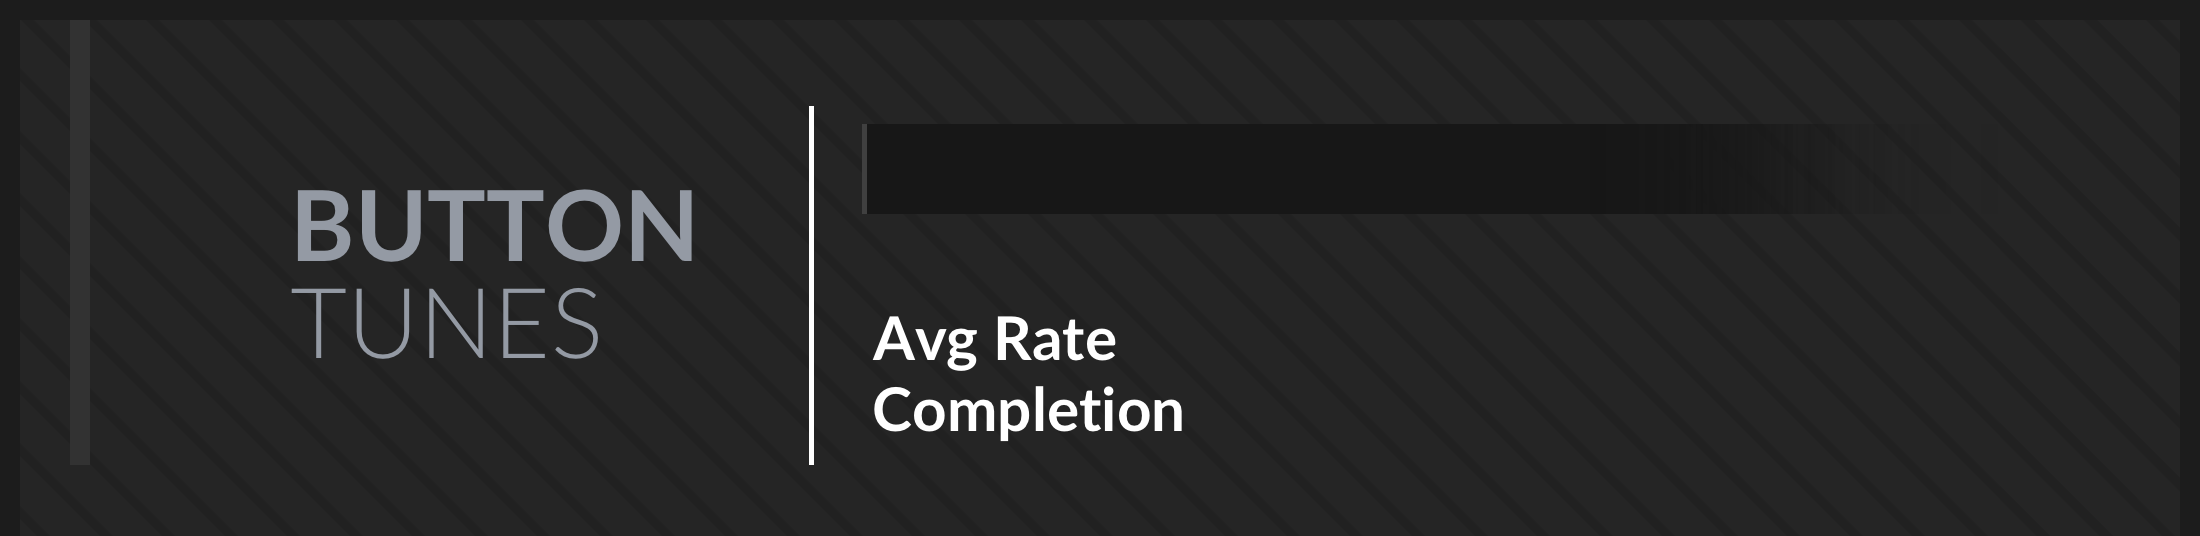
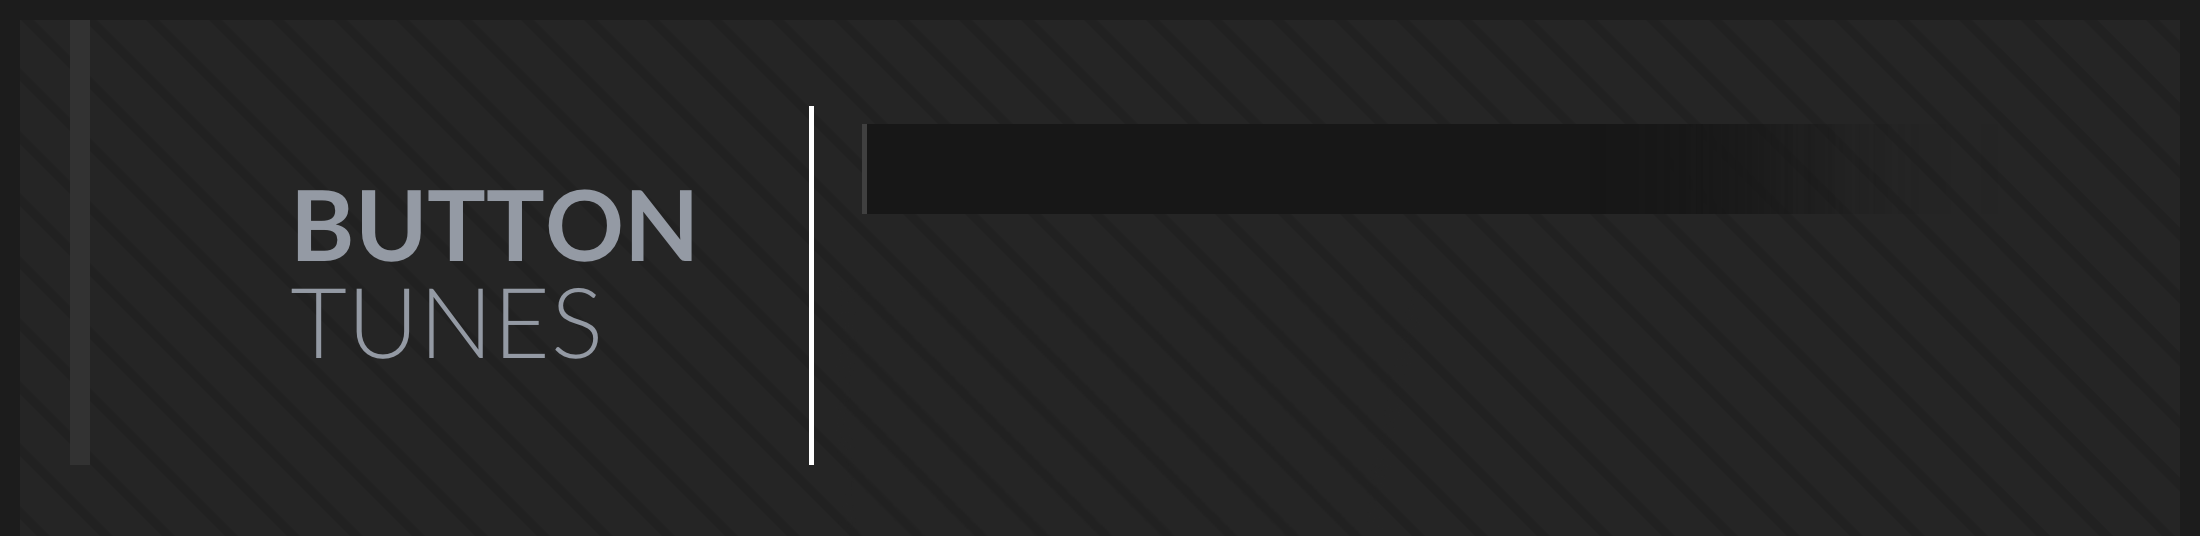
add pp list

Changed region(s): [[0.3709, 0.7164, 0.5564, 0.806], [0.4018, 0.597, 0.5255, 0.6866]]

diff --git a/djmax_bests/generators/scorelist_generator/header_renderers.py b/djmax_bests/generators/scorelist_generator/header_renderers.py
@@ -24,10 +24,13 @@ def __render_header_base(data: models.DMScorelist, bg: Image.Image,
 
 
 def __render_stats_basic(data: models.DMScorelist, bg: Image.Image) -> None:
+    font_rg = ImageFont.truetype(os.path.join(c.FONT_PATH, "Respect_rg.ttf"), 60)
     font_bd = ImageFont.truetype(os.path.join(c.FONT_PATH, "Respect_bd.ttf"), 60)
     draw = ImageDraw.Draw(bg)
 
-    current_x = 1210
+    draw.text((868, 360), "Avg Rate", fill='white', anchor='ls', font=font_rg)
+    draw.text((868, 432), "Completion", fill='white', anchor='ls', font=font_rg)
+    current_x = 1200
     avg_s = f"{data.avg_score:.2f}%"
     comp_s = f"{data.completion_rate:.2f}%"
     comp_s_len = ceil(draw.textlength(comp_s, font=font_bd))
@@ -39,8 +42,8 @@ def __render_stats_basic(data: models.DMScorelist, bg: Image.Image) -> None:
     draw.rectangle([(current_x - 1, 310), (current_x + 1, 440)], fill='white')
 
     current_x += 30
-    draw.text((current_x, 360), f"≥99%", fill='white', anchor='ls', font=font_bd)
-    draw.text((current_x, 432), f"≥97%", fill='white', anchor='ls', font=font_bd)
+    draw.text((current_x, 360), f"≥99%", fill='white', anchor='ls', font=font_rg)
+    draw.text((current_x, 432), f"≥97%", fill='white', anchor='ls', font=font_rg)
 
     current_x += 179 + 30  # length of "≥97%" and padding
     c99, c97 = data.count_99_97
@@ -95,3 +98,60 @@ def render_header_by_pack(data: models.DMScorelist, bg: Image.Image, pack_name: 
                       anchor='lm', font=font_bd)
 
     __render_header_base(data, bg, __render_star_strip, __render_stats_basic)
+
+
+def render_header_pp(data: models.DMScorelist, bg: Image.Image) -> None:
+    def __render_star_strip(draw: ImageDraw.ImageDraw) -> None:
+        font_bd = ImageFont.truetype(os.path.join(c.FONT_PATH, "Respect_bd.ttf"), 70)
+
+        with util.assemble_diff_strip_blank(is_sc=data.is_sc, diff_star_path=c.DIFF_STAR_PATH) as star_strip:
+            bg.alpha_composite(star_strip, (868, 231))
+            draw.text((868 + star_strip.width // 2, 228 + star_strip.height // 2),
+                      "PERFECT PLAY", fill='#fe0544',
+                      anchor='mm', font=font_bd)
+
+    def __render_stats(_data: models.DMScorelist, _bg: Image.Image) -> None:
+        font_rg = ImageFont.truetype(os.path.join(c.FONT_PATH, "Respect_rg.ttf"), 60)
+        font_bd = ImageFont.truetype(os.path.join(c.FONT_PATH, "Respect_bd.ttf"), 60)
+        draw = ImageDraw.Draw(_bg)
+
+        current_x = 868
+
+        draw.text((current_x, 360), "Highest SC Level", fill='white', anchor='ls', font=font_rg)
+        draw.text((current_x, 432), "Highest Non-SC Level", fill='white', anchor='ls', font=font_rg)
+        current_x += 670
+        sc_level = _data.first_sc_level
+        nonsc_level = _data.first_nonsc_level
+        draw.text((current_x, 360), str(sc_level) if sc_level > 0 else "--",
+                  fill='white', anchor='rs', font=font_bd)
+        draw.text((current_x, 432), str(nonsc_level) if nonsc_level > 0 else "--",
+                  fill='white', anchor='rs', font=font_bd)
+
+        current_x += 10
+        sc_star_name = f"sc_{(sc_level - 1) // 5 + 1 if sc_level > 0 else 0}.png"
+        nonsc_star_name = f"nm_{(nonsc_level - 1) // 5 + 1 if nonsc_level > 0 else 0}.png"
+        with Image.open(os.path.join(c.DIFF_STAR_PATH, sc_star_name)) as sc_star_img:
+            res = sc_star_img.resize((60, 60))
+            bg.alpha_composite(res, (current_x, 365 - c.MC_IMG_SIZE[1]))
+        with Image.open(os.path.join(c.DIFF_STAR_PATH, nonsc_star_name)) as nonsc_star_img:
+            res = nonsc_star_img.resize((60, 60))
+            bg.alpha_composite(res, (current_x, 437 - c.MC_IMG_SIZE[1]))
+
+        current_x += 30 + 60 # star width
+        draw.rectangle([(current_x - 1, 310), (current_x + 1, 440)], fill='white')
+
+        current_x += 30
+        with Image.open(os.path.join(c.ASSET_PATH, "PP_counter.png")) as pp_img:
+            bg.alpha_composite(pp_img, (current_x, 365 - c.MC_IMG_SIZE[1]))
+            bg.alpha_composite(pp_img, (current_x, 437 - c.MC_IMG_SIZE[1]))
+        current_x += c.MC_IMG_SIZE[0] + 30
+        draw.text((current_x, 360), "SC", fill='white', anchor='ls', font=font_rg)
+        draw.text((current_x, 432), "Non-SC", fill='white', anchor='ls', font=font_rg)
+        current_x += 230
+        csc, cnsc = data.count_sc_nonsc
+        step = ceil(max(draw.textlength(str(csc), font=font_bd), draw.textlength(str(cnsc), font=font_bd)))
+        current_x += step
+        draw.text((current_x, 360), str(csc), fill='white', anchor='rs', font=font_bd)
+        draw.text((current_x, 432), str(cnsc), fill='white', anchor='rs', font=font_bd)
+
+    __render_header_base(data, bg, __render_star_strip, __render_stats)

diff --git a/djmax_bests/models.py b/djmax_bests/models.py
@@ -271,7 +271,7 @@ class DMSongSimple(BaseModel):
 
 class DMScorelistFloor(BaseModel):
     floor_constant: Decimal
-    floor_diff: Literal["NM", "HD", "MX", "SC"]
+    floor_diff: Literal["NM", "HD", "MX", "SC", ""]
     songs: list[DMSongSimple]
 
 class DMScorelist(BaseModel):
@@ -349,10 +349,35 @@ class DMScorelist(BaseModel):
                     count_mc += 1
         return count_mc, count_pp
 
+    @property
+    def first_sc_level(self) -> Decimal:
+        for floor in self.floors:
+            if floor.floor_diff == "SC":
+                return floor.floor_constant
+        return Decimal(0)
+
+    @property
+    def first_nonsc_level(self) -> Decimal:
+        for floor in self.floors:
+            if floor.floor_diff != "SC":
+                return floor.floor_constant
+        return Decimal(0)
+
+    @property
+    def count_sc_nonsc(self) -> tuple[int, int]:
+        count_sc = 0
+        count_nonsc = 0
+        for floor in self.floors:
+            if floor.floor_diff == "SC":
+                count_sc += len(floor.songs)
+            else:
+                count_nonsc += len(floor.songs)
+        return count_sc, count_nonsc
+
 
     def organize(self):
         def __sort_floor(f: DMScorelistFloor) -> tuple[int, Decimal]:
-            diff_index = {"NM": 0, "HD": 1, "MX": 2, "SC": 3}[f.floor_diff]
+            diff_index = {"": -1, "NM": 0, "HD": 1, "MX": 2, "SC": 3}[f.floor_diff]
             return diff_index, f.floor_constant
         self.floors.sort(key=__sort_floor, reverse=True)
         for floor in self.floors:
@@ -360,7 +385,7 @@ class DMScorelist(BaseModel):
 
 
     @classmethod
-    def __make_songlist(cls, is_sc: bool, measure_in_sc_floor: bool, level: int,
+    def __make_songlist(cls, is_sc: bool, measure_in_sc_floor: bool, distinguish_nonsc_diff: bool, level: int,
                         all_patterns: SongDBMatches | None, va_response: VAResponse) -> "DMScorelist":
         floors: list[DMScorelistFloor] = []
         for pattern in va_response.records:
@@ -374,6 +399,9 @@ class DMScorelist(BaseModel):
             if not is_sc:
                 # drop decimal place
                 floor_constant = Decimal(int(floor_constant))
+
+            if not distinguish_nonsc_diff and floor_diff != "SC":
+                floor_diff = ""
 
             dm_song_simple = DMSongSimple(
                 songid=pattern.title,
@@ -404,6 +432,9 @@ class DMScorelist(BaseModel):
                 else:
                     floor_diff = diff
 
+                if not distinguish_nonsc_diff and floor_diff != "SC":
+                    floor_diff = ""
+
                 dm_song_simple = DMSongSimple(
                     songid=song_id,
                     pattern=diff,
@@ -429,14 +460,23 @@ class DMScorelist(BaseModel):
     @classmethod
     def from_va_response_level(cls, is_sc: bool, level: int, song_db: DMSongDB, va_response: VAResponse) -> "DMScorelist":
         all_patterns = song_db.get_songs_by_level(va_response.button, level, is_sc)
-        return cls.__make_songlist(is_sc, True, level, all_patterns, va_response)
+        return cls.__make_songlist(is_sc, True, False, level, all_patterns, va_response)
 
     @classmethod
     def from_va_response_new(cls, diff: str, song_db: DMSongDB, va_response: VAResponse) -> "DMScorelist":
         all_patterns = song_db.get_new_songs(va_response.button, diff)
-        return cls.__make_songlist(diff == "SC", False, 0, all_patterns, va_response)
+        return cls.__make_songlist(diff == "SC", False, True, 0, all_patterns, va_response)
 
     @classmethod
     def from_va_response_pack(cls, diff: str, pack: str, song_db: DMSongDB, va_response: VAResponse) -> "DMScorelist":
         all_patterns = song_db.get_songs_by_pack(va_response.button, diff, pack)
-        return cls.__make_songlist(diff == "SC", False, 0, all_patterns, va_response)
+        return cls.__make_songlist(diff == "SC", False, True, 0, all_patterns, va_response)
+
+    @classmethod
+    def from_va_response_pp(cls, va_response: VAResponse) -> "DMScorelist":
+        filtered_resp = VAResponse(
+            nickname=va_response.nickname,
+            button=va_response.button,
+            records=[record for record in va_response.records if record.score is not None and record.score == Decimal("100.00")]
+        )
+        return cls.__make_songlist(False, False, False, 0, None, filtered_resp)

diff --git a/djmax_bests/generate.py b/djmax_bests/generate.py
@@ -1,35 +1,41 @@
 from PIL import Image
 
 from . import api_handler, models
-from .generators import bests_generator, scorelist_generator
+import generators
 
 
 async def generate_bests(username: str, bmode: int) -> Image.Image:
     bests_data = await api_handler.fetch_bests(username, bmode)
     bests_data.organize()
-    return await bests_generator.generate_bests_image(bests_data)
+    return await generators.generate_bests_image(bests_data)
 
 
 async def generate_bests_theoretical(bmode: int) -> Image.Image:
     song_db = await api_handler.fetch_song_db()
     bests_data = models.DMBests.get_theoretical_bests(bmode, song_db)
     bests_data.organize()
-    return await bests_generator.generate_bests_image(bests_data, is_max=True)
+    return await generators.generate_bests_image(bests_data, is_max=True)
 
 
 async def generate_scorelist(username: str, bmode: int, is_sc: bool, level: int) -> Image.Image:
     scorelist_data = await api_handler.fetch_scorelist(username, bmode, is_sc, level)
     scorelist_data.organize()
-    return await scorelist_generator.generate_scorelist_by_level(scorelist_data)
+    return await generators.generate_scorelist_by_level(scorelist_data)
 
 
 async def generate_scorelist_new(username: str, bmode: int, diff: str) -> Image.Image:
     scorelist_data = await api_handler.fetch_scorelist_new(username, bmode, diff)
     scorelist_data.organize()
-    return await scorelist_generator.generate_scorelist_by_pack(scorelist_data, "NEW")
+    return await generators.generate_scorelist_by_pack(scorelist_data, "NEW")
 
 
 async def generate_scorelist_pack(username: str, bmode: int, diff: str, pack: str) -> Image.Image:
     scorelist_data = await api_handler.fetch_scorelist_pack(username, bmode, diff, pack)
     scorelist_data.organize()
-    return await scorelist_generator.generate_scorelist_by_pack(scorelist_data, pack)
+    return await generators.generate_scorelist_by_pack(scorelist_data, pack)
+
+
+async def generate_scorelist_pp(username: str, bmode: int) -> Image.Image:
+    scorelist_data = await api_handler.fetch_scorelist_pp(username, bmode)
+    scorelist_data.organize()
+    return await generators.generate_scorelist_pp(scorelist_data)

diff --git a/djmax_bests/generators/scorelist_generator/scorelist_generate.py b/djmax_bests/generators/scorelist_generator/scorelist_generate.py
@@ -20,6 +20,9 @@ async def generate_scorelist_by_level(data: models.DMScorelist) -> Image.Image:
 
 
 async def generate_scorelist_by_pack(data: models.DMScorelist, pack_name: str) -> Image.Image:
+    """
+    Also works as NEW SONGS generator, by passing "NEW" into pack_name.
+    """
     if pack_name == "NEW":
         pack_color = '#f4bb00'
     else:
@@ -30,6 +33,17 @@ async def generate_scorelist_by_pack(data: models.DMScorelist, pack_name: str) -
     header_renderers.render_header_by_pack(data, bg, pack_name, pack_color)
 
     with await songs_renderers.render_songs_by_pack(data, bg.size) as overlay:
+        bg.alpha_composite(overlay)
+
+    return bg
+
+
+async def generate_scorelist_pp(data: models.DMScorelist) -> Image.Image:
+    bg = await asyncio.to_thread(assemble_background, data)
+
+    header_renderers.render_header_pp(data, bg)
+
+    with await songs_renderers.render_songs_pp(data, bg.size) as overlay:
         bg.alpha_composite(overlay)
 
     return bg

diff --git a/djmax_bests/generators/scorelist_generator/songs_renderers.py b/djmax_bests/generators/scorelist_generator/songs_renderers.py
@@ -81,3 +81,13 @@ async def render_songs_by_pack(data: models.DMScorelist, dimension: tuple[int, i
                   fill='white', anchor='rt', font=font_bd)
 
     return await __render_base(__draw_group_header, data, dimension, lambda _: False)
+
+async def render_songs_pp(data: models.DMScorelist, dimension: tuple[int, int]) -> Image.Image:
+    def __draw_group_header(floor: models.DMScorelistFloor, draw: ImageDraw.ImageDraw, y_offset: int) -> None:
+        draw.text((c.L_SPACE - 20, y_offset), f"{floor.floor_diff}{floor.floor_constant}",
+                  fill='white', anchor='rt', font=font_bd)
+
+    def __need_pattern_text_func(song: models.DMSongSimple) -> bool:
+        return song.pattern != "SC"
+
+    return await __render_base(__draw_group_header, data, dimension, __need_pattern_text_func)

diff --git a/djmax_bests/api_handler.py b/djmax_bests/api_handler.py
@@ -157,3 +157,17 @@ async def fetch_scorelist_pack(username: str, bmode: int, diff: str, pack: str) 
     song_db = await fetch_song_db()
     va_resp = VAResponse.model_validate_json(response.text)
     return DMScorelist.from_va_response_pack(diff, pack, song_db, va_resp)
+
+async def fetch_scorelist_pp(username: str, bmode: int) -> "models.DMScorelist":
+    from .models import DMScorelist, VAResponse
+    print(f'Fetching PP scorelist for {username} - {bmode}b')
+    url = build_req_url(
+        username,
+        bmode,
+        sort = "score",
+        order = "desc"
+    )
+    response = await client.get(url)
+    response.raise_for_status()
+    va_resp = VAResponse.model_validate_json(response.text)
+    return DMScorelist.from_va_response_pp(va_resp)

diff --git a/djmax_bests/util.py b/djmax_bests/util.py
@@ -91,6 +91,7 @@ def assemble_diff_strip_base(*, is_sc: bool, level_from: int | Decimal, level_to
 
 assemble_diff_strip_level = partial(assemble_diff_strip_base, level_from=1, draw_range_indicator=False)
 assemble_diff_strip_range = partial(assemble_diff_strip_base, draw_range_indicator=True)
+assemble_diff_strip_blank = partial(assemble_diff_strip_base, level_from=-1, level_to=-1, draw_range_indicator=False)
 
 
 def diff_coeff(diff: int, is_sc: bool) -> int:

diff --git a/djmax_bests/generators/scorelist_generator/__init__.py b/djmax_bests/generators/scorelist_generator/__init__.py
@@ -1,1 +1,8 @@
-from .scorelist_generate import generate_scorelist_by_level, generate_scorelist_by_pack
+from .scorelist_generate import generate_scorelist_by_level, generate_scorelist_by_pack, generate_scorelist_pp
+
+
+__all__ = [
+    "generate_scorelist_by_level",
+    "generate_scorelist_by_pack",
+    "generate_scorelist_pp"
+]

diff --git a/djmax_bests/generators/bests_generator/__init__.py b/djmax_bests/generators/bests_generator/__init__.py
@@ -1,1 +1,6 @@
 from .bests_generate import generate_bests_image
+
+
+__all__ = [
+    "generate_bests_image"
+]

diff --git a/djmax_bests/generators/__init__.py b/djmax_bests/generators/__init__.py
@@ -1,0 +1,2 @@
+from .bests_generator import *
+from .scorelist_generator import *
